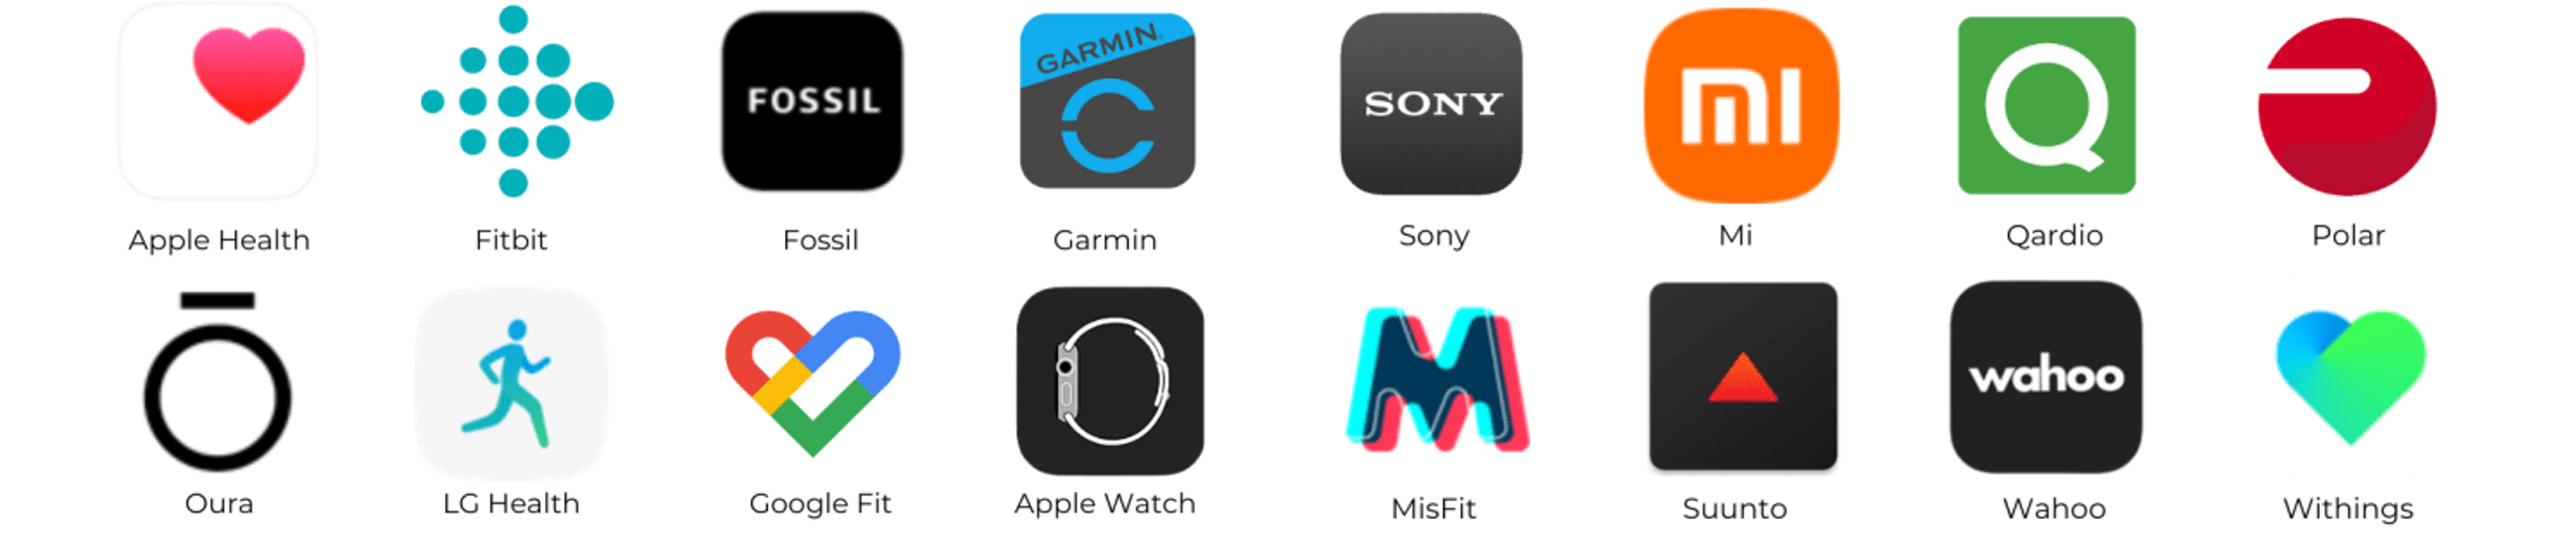
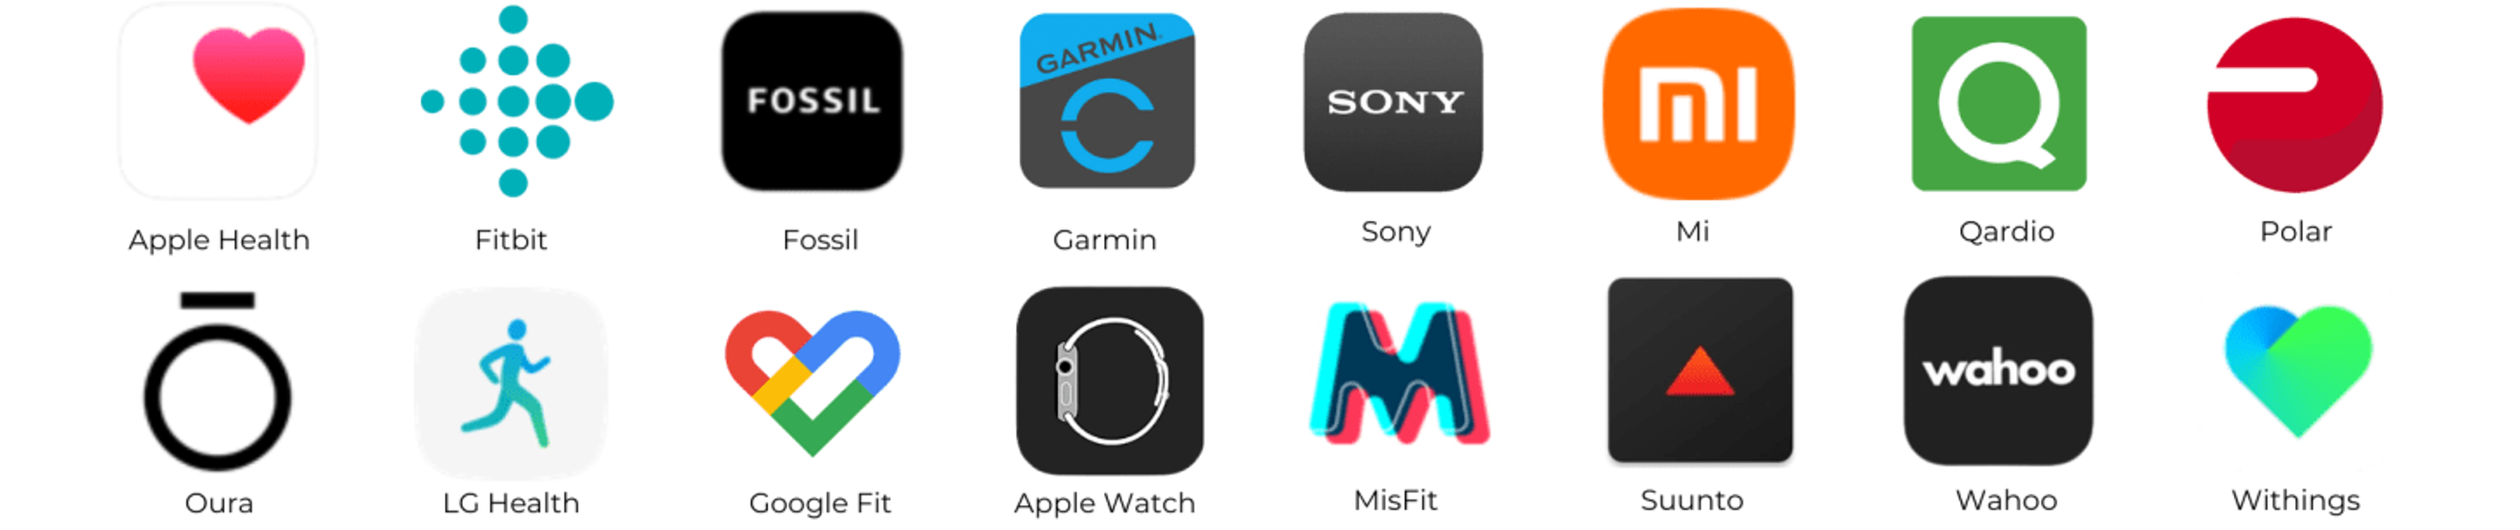
🎨 Update: Remove blue gradient and add clean white border to image

diff --git a/src/components/IntegrationShowcase.tsx b/src/components/IntegrationShowcase.tsx
@@ -16,7 +16,7 @@ export default function IntegrationShowcase() {
 
         {/* Image Below */}
         <div className="flex justify-center mb-12">
-          <div className="w-full h-full bg-gradient-to-br from-cyan-500/20 to-blue-600/20 rounded-2xl overflow-hidden border border-cyan-400/30 shadow-2xl">
+          <div className="w-full h-full bg-white rounded-2xl overflow-hidden border border-slate-200 shadow-lg hover:shadow-xl transition-shadow">
             <img 
               src="/Images/devices.png" 
               alt="TechnoHealth Devices"
